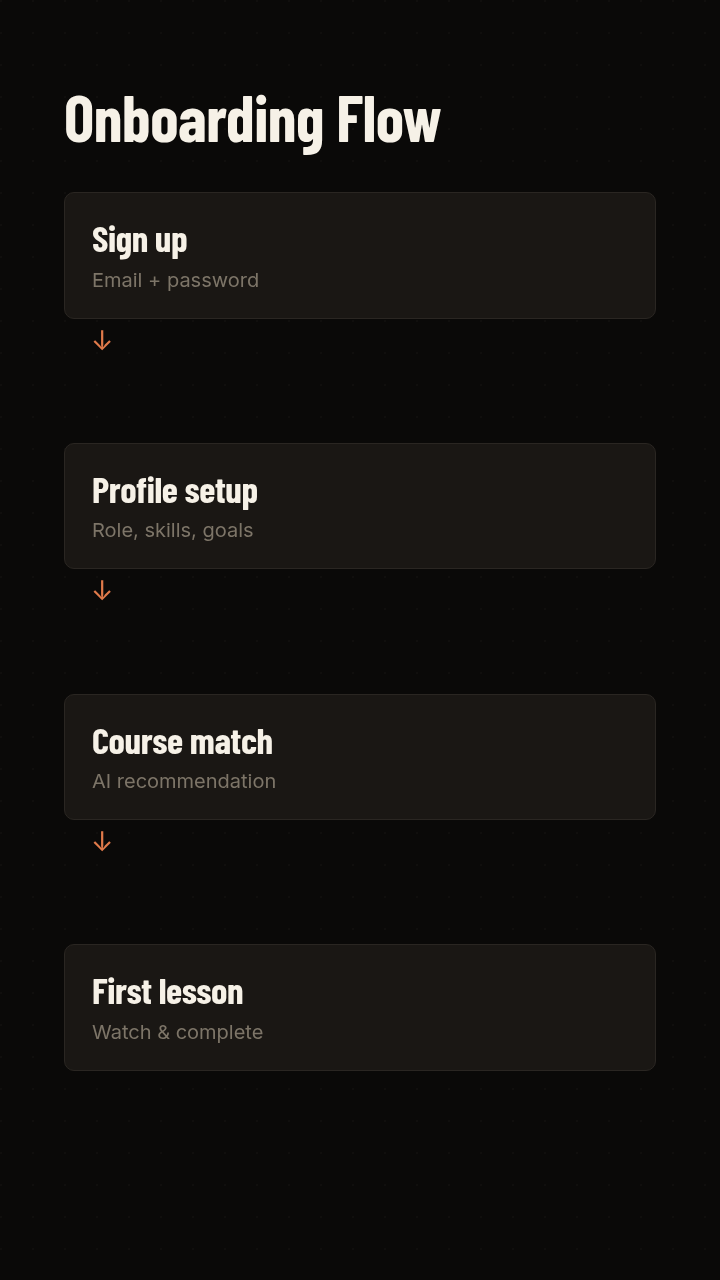
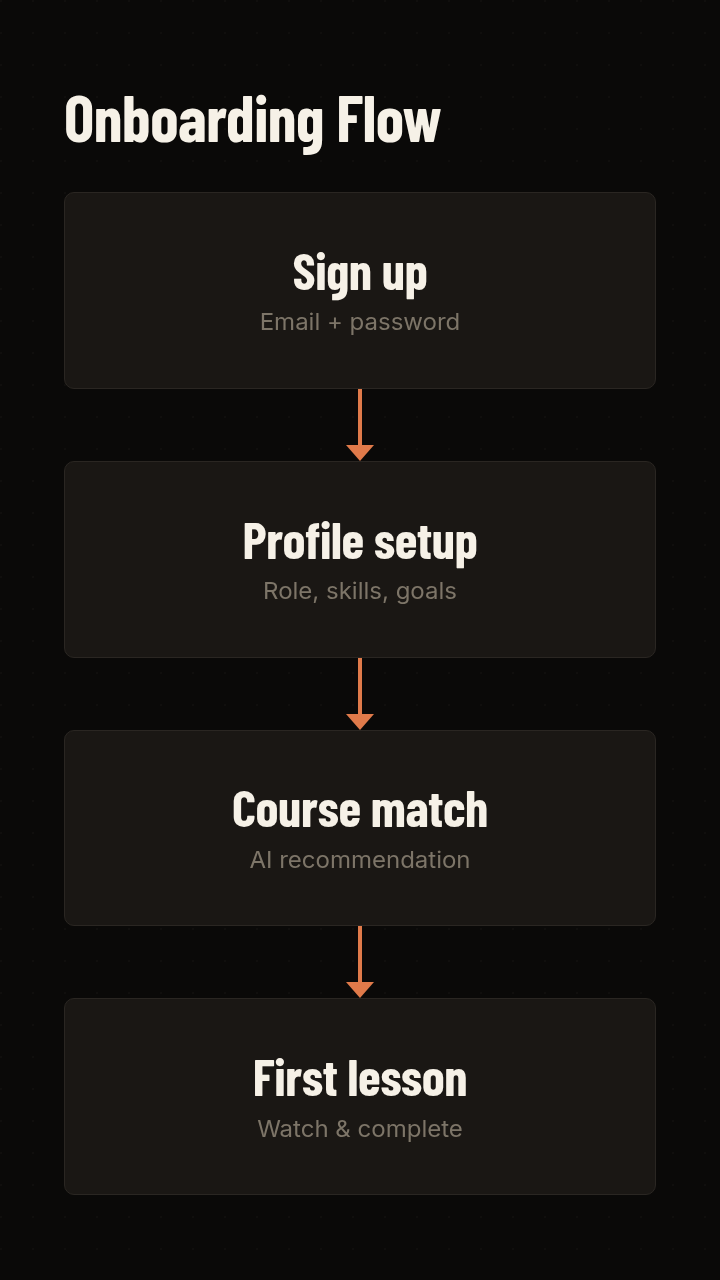
fix(process-flow): centre portrait connectors and fill the column (#113)
In portrait, each step item took an equal share of the track, but the box
and the arrow glyph sat at the top-left of that share. The arrow was a
27px glyph under the left edge of the box, and it did not reach the next
node. The rest of each share was empty.

Now the portrait track is a vertical chain. Each connector is a CSS line
with an arrow head, centred on the column, flush from the bottom edge of
node N to the top edge of node N+1. The nodes share the remaining height
equally (item basis = connector length, last item basis 0), capped at
300px and centred. Labels are larger (52px) and centred in the node.
6+ nodes use shorter connectors and smaller type. Landscape is unchanged.

diff --git a/templates/process-flow/portrait.css b/templates/process-flow/portrait.css
@@ -38,19 +38,44 @@
   margin: 0;
 }
 
+/*
+ * The track is a vertical chain: node, connector, node, connector, node.
+ *
+ * Each item holds one node (the box) and the connector that leaves it. The
+ * connector has a fixed length (72px) and sits flush between the bottom
+ * edge of node N and the top edge of node N+1, on the centre line of the
+ * column. The nodes take all of the remaining height in equal shares, so the
+ * chain fills the track without dead gaps, for 2..N nodes:
+ *
+ *   - every item has flex-basis 72px (the connector) and grows by 1;
+ *   - the last item has no connector, so its basis is 0.
+ *   Free space = track - (N-1) * conn, split N ways -> equal boxes.
+ *
+ * A node is capped at 300px. When the cap applies (2 or 3 short nodes),
+ * the chain is centred in the track, and the connectors still touch the nodes.
+ */
 .tpl-root.tpl-process-flow.tpl-process-flow--portrait .tpl-process-flow__track {
   display: flex;
   flex-direction: column;
+  justify-content: center;
   gap: 0;
   flex: 1 1 auto;
+  min-height: 0;
 }
 
 .tpl-root.tpl-process-flow.tpl-process-flow--portrait .tpl-process-flow__item {
   display: flex;
   flex-direction: column;
-  align-items: flex-start;
+  align-items: stretch;
   gap: 0;
-  flex: 1 1 0;
+  flex: 1 1 72px;
+  min-height: 0;
+  max-height: 372px; /* node cap 300px + connector 72px */
+}
+
+.tpl-root.tpl-process-flow.tpl-process-flow--portrait .tpl-process-flow__item:last-child {
+  flex-basis: 0;
+  max-height: 300px;
 }
 
 .tpl-root.tpl-process-flow.tpl-process-flow--portrait .tpl-process-flow__item:last-child .tpl-process-flow__arrow {
@@ -58,36 +83,93 @@
 }
 
 .tpl-root.tpl-process-flow.tpl-process-flow--portrait .tpl-process-flow__box {
-  width: 100%;
+  flex: 1 1 0;
+  min-height: 0;
   display: flex;
   flex-direction: column;
-  gap: 8px;
-  padding: 24px 27px;
+  justify-content: center;
+  align-items: center;
+  text-align: center;
+  gap: 10px;
+  padding: 20px 32px;
   background: var(--s-surface-raised, #1a1714);
   border: 1px solid var(--s-border-subtle, #2a2622);
   border-radius: var(--p-radius-lg, 10px);
+  overflow: hidden;
 }
 
 .tpl-root.tpl-process-flow.tpl-process-flow--portrait .tpl-process-flow__label {
   font-family: var(--s-font-display, 'Barlow Condensed', sans-serif);
-  font-size: 37px;
+  font-size: 52px;
   font-weight: var(--p-weight-600, 600);
   letter-spacing: var(--p-tracking-tight, -0.4px);
   color: var(--s-ink-primary, #f6f1e7);
-  line-height: 1.1;
+  line-height: 1.05;
 }
 
 .tpl-root.tpl-process-flow.tpl-process-flow--portrait .tpl-process-flow__note {
-  font-size: 20px;
+  font-size: 24px;
   color: var(--s-ink-muted, #7d7568);
-  line-height: 1.4;
+  line-height: 1.35;
 }
 
+/* The connector: a line from the bottom edge of the node above to the arrow
+   head, which touches the top edge of the node below. Drawn in CSS so it
+   always spans the full gap, whatever the gap is. */
 .tpl-root.tpl-process-flow.tpl-process-flow--portrait .tpl-process-flow__arrow {
-  flex-shrink: 0;
-  font-size: 27px;
-  color: var(--s-brand-solid, #E07A4A);
-  padding: 8px 27px;
-  line-height: 1;
-  align-self: flex-start;
+  position: relative;
+  flex: 0 0 72px;
+  align-self: center;
+  width: 28px;
+}
+
+.tpl-root.tpl-process-flow.tpl-process-flow--portrait .tpl-process-flow__arrow::before {
+  content: "";
+  position: absolute;
+  top: 0;
+  bottom: 14px;
+  left: 50%;
+  width: 4px;
+  margin-left: -2px;
+  background: var(--s-brand-solid, #E07A4A);
+}
+
+.tpl-root.tpl-process-flow.tpl-process-flow--portrait .tpl-process-flow__arrow::after {
+  content: "";
+  position: absolute;
+  bottom: 0;
+  left: 0;
+  width: 0;
+  height: 0;
+  border-left: 14px solid transparent;
+  border-right: 14px solid transparent;
+  border-top: 16px solid var(--s-brand-solid, #E07A4A);
+}
+
+/* Dense chain: 6 or more nodes. Shorter connectors and smaller type, so every
+   node keeps room for its label on the 1280px canvas. */
+.tpl-root.tpl-process-flow.tpl-process-flow--portrait .tpl-process-flow__track:has(> .tpl-process-flow__item:nth-child(6)) .tpl-process-flow__item {
+  flex-basis: 44px;
+  max-height: none;
+}
+
+.tpl-root.tpl-process-flow.tpl-process-flow--portrait .tpl-process-flow__track:has(> .tpl-process-flow__item:nth-child(6)) .tpl-process-flow__item:last-child {
+  flex-basis: 0;
+}
+
+.tpl-root.tpl-process-flow.tpl-process-flow--portrait .tpl-process-flow__track:has(> .tpl-process-flow__item:nth-child(6)) .tpl-process-flow__arrow {
+  flex-basis: 44px;
+}
+
+.tpl-root.tpl-process-flow.tpl-process-flow--portrait .tpl-process-flow__track:has(> .tpl-process-flow__item:nth-child(6)) .tpl-process-flow__box {
+  padding: 8px 24px;
+  gap: 4px;
+}
+
+.tpl-root.tpl-process-flow.tpl-process-flow--portrait .tpl-process-flow__track:has(> .tpl-process-flow__item:nth-child(6)) .tpl-process-flow__label {
+  font-size: 38px;
+}
+
+.tpl-root.tpl-process-flow.tpl-process-flow--portrait .tpl-process-flow__track:has(> .tpl-process-flow__item:nth-child(6)) .tpl-process-flow__note {
+  font-size: 20px;
 }

diff --git a/templates/process-flow/portrait.html b/templates/process-flow/portrait.html
@@ -7,7 +7,7 @@
         <span class="tpl-process-flow__label">{{label}}</span>
         {{#note}}<span class="tpl-process-flow__note">{{note}}</span>{{/note}}
       </div>
-      <span class="tpl-process-flow__arrow">&#8595;</span>
+      <span class="tpl-process-flow__arrow" aria-hidden="true"></span>
     </div>
     {{/steps}}
   </div>
